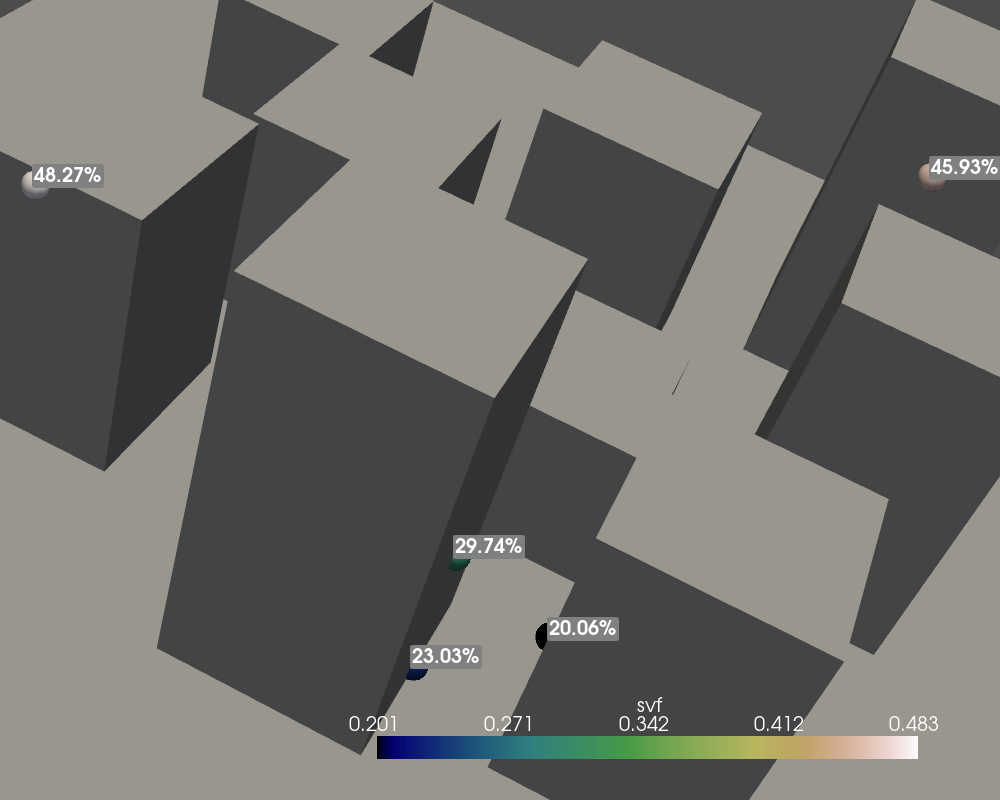
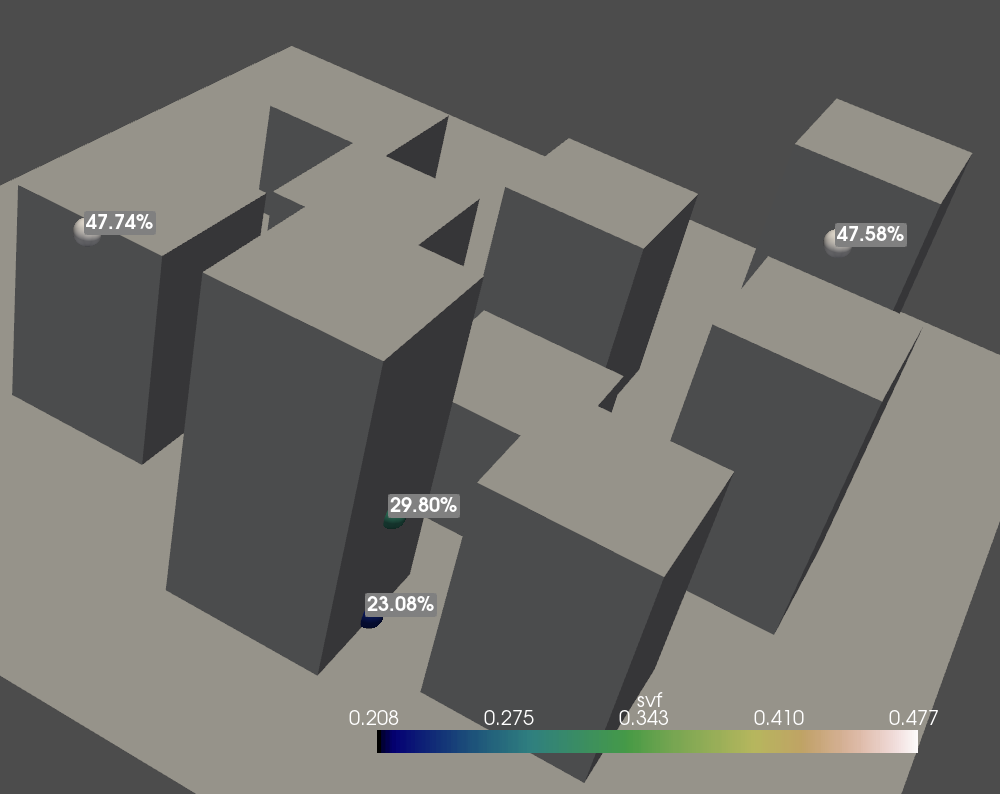
Update pyvista.md + img/pyvista_4.png

diff --git a/docs/pyvista.md b/docs/pyvista.md
@@ -288,7 +288,7 @@ The model being built, let's proceed to the SVF estimation:
 ```python
 from t4gpd.pyvista.geoProcesses.SVF3D import SVF3D
 
-op = SVF3D([buildings], nrays=5000, method='random')
+op = SVF3D([buildings], nrays=5000, method='MonteCarlo')
 result = STGeoProcess(op, sensors).execute()
 ```
 
